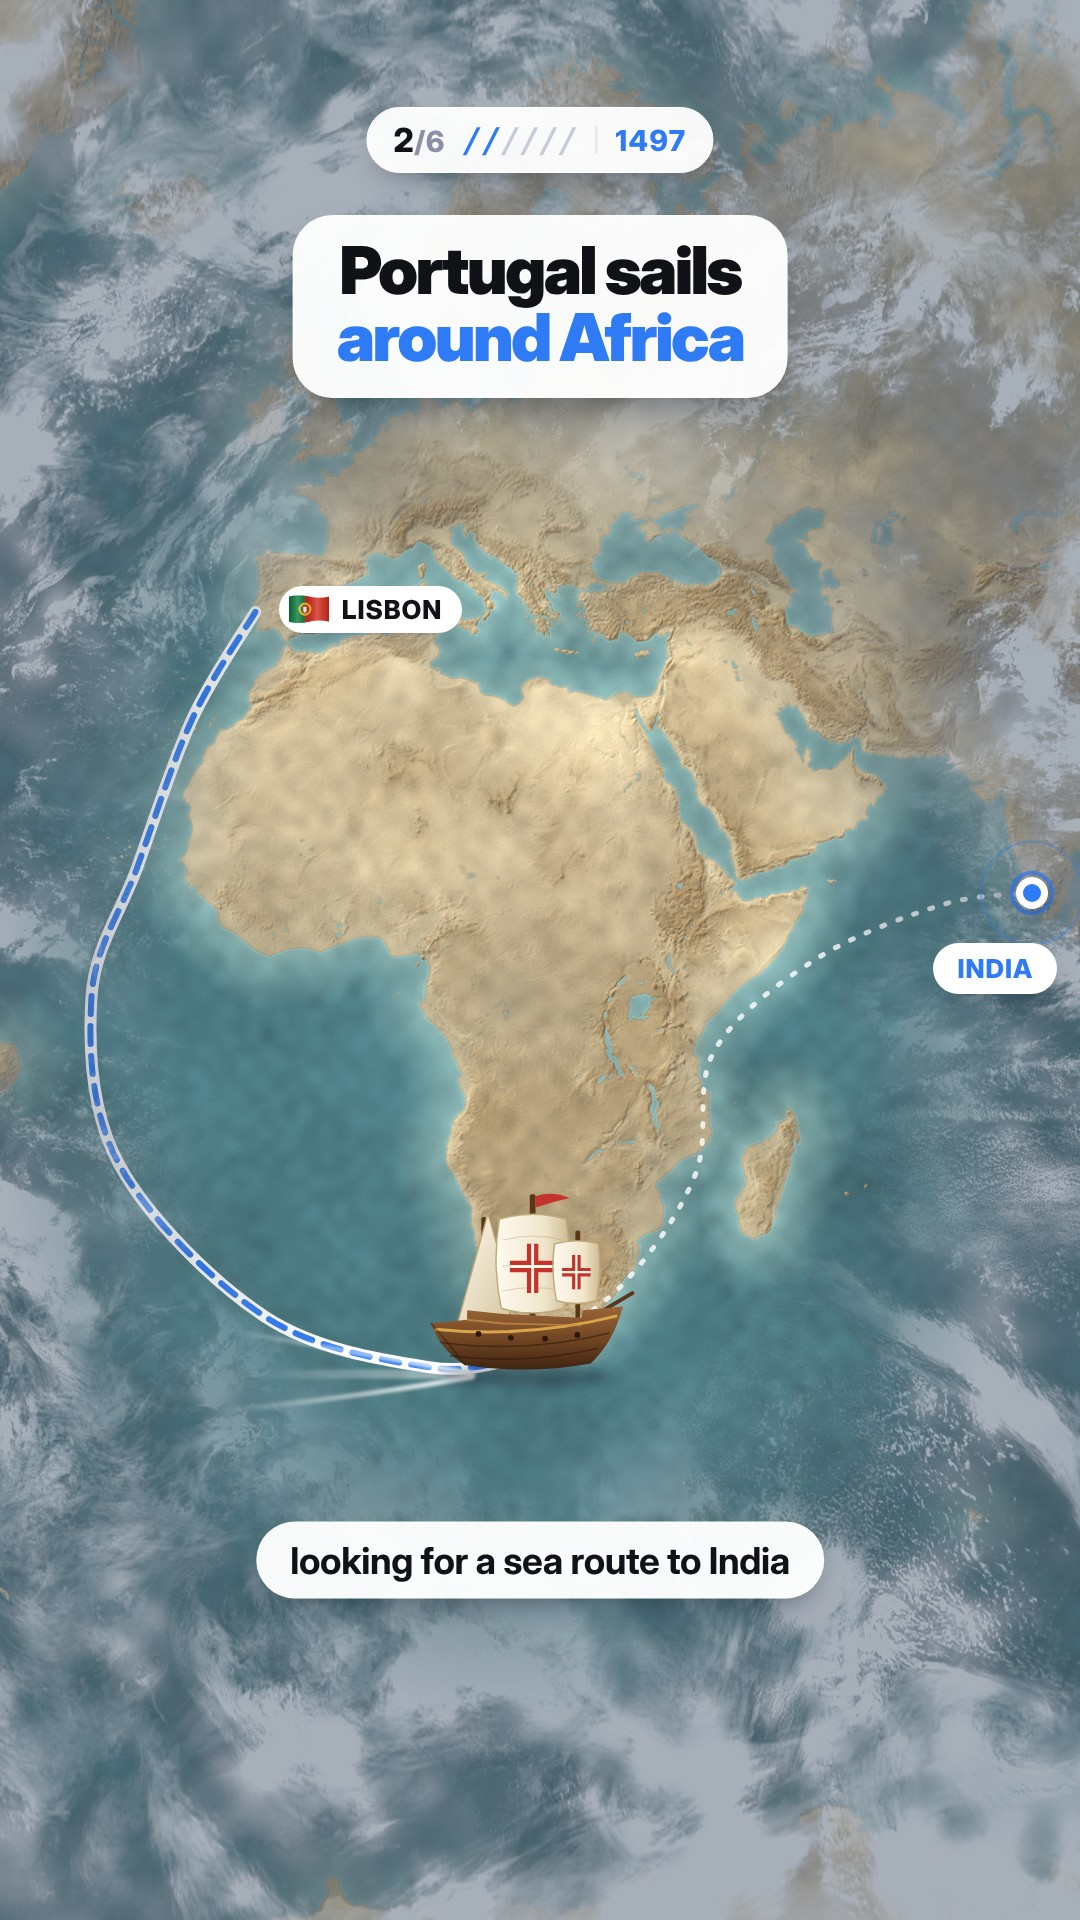
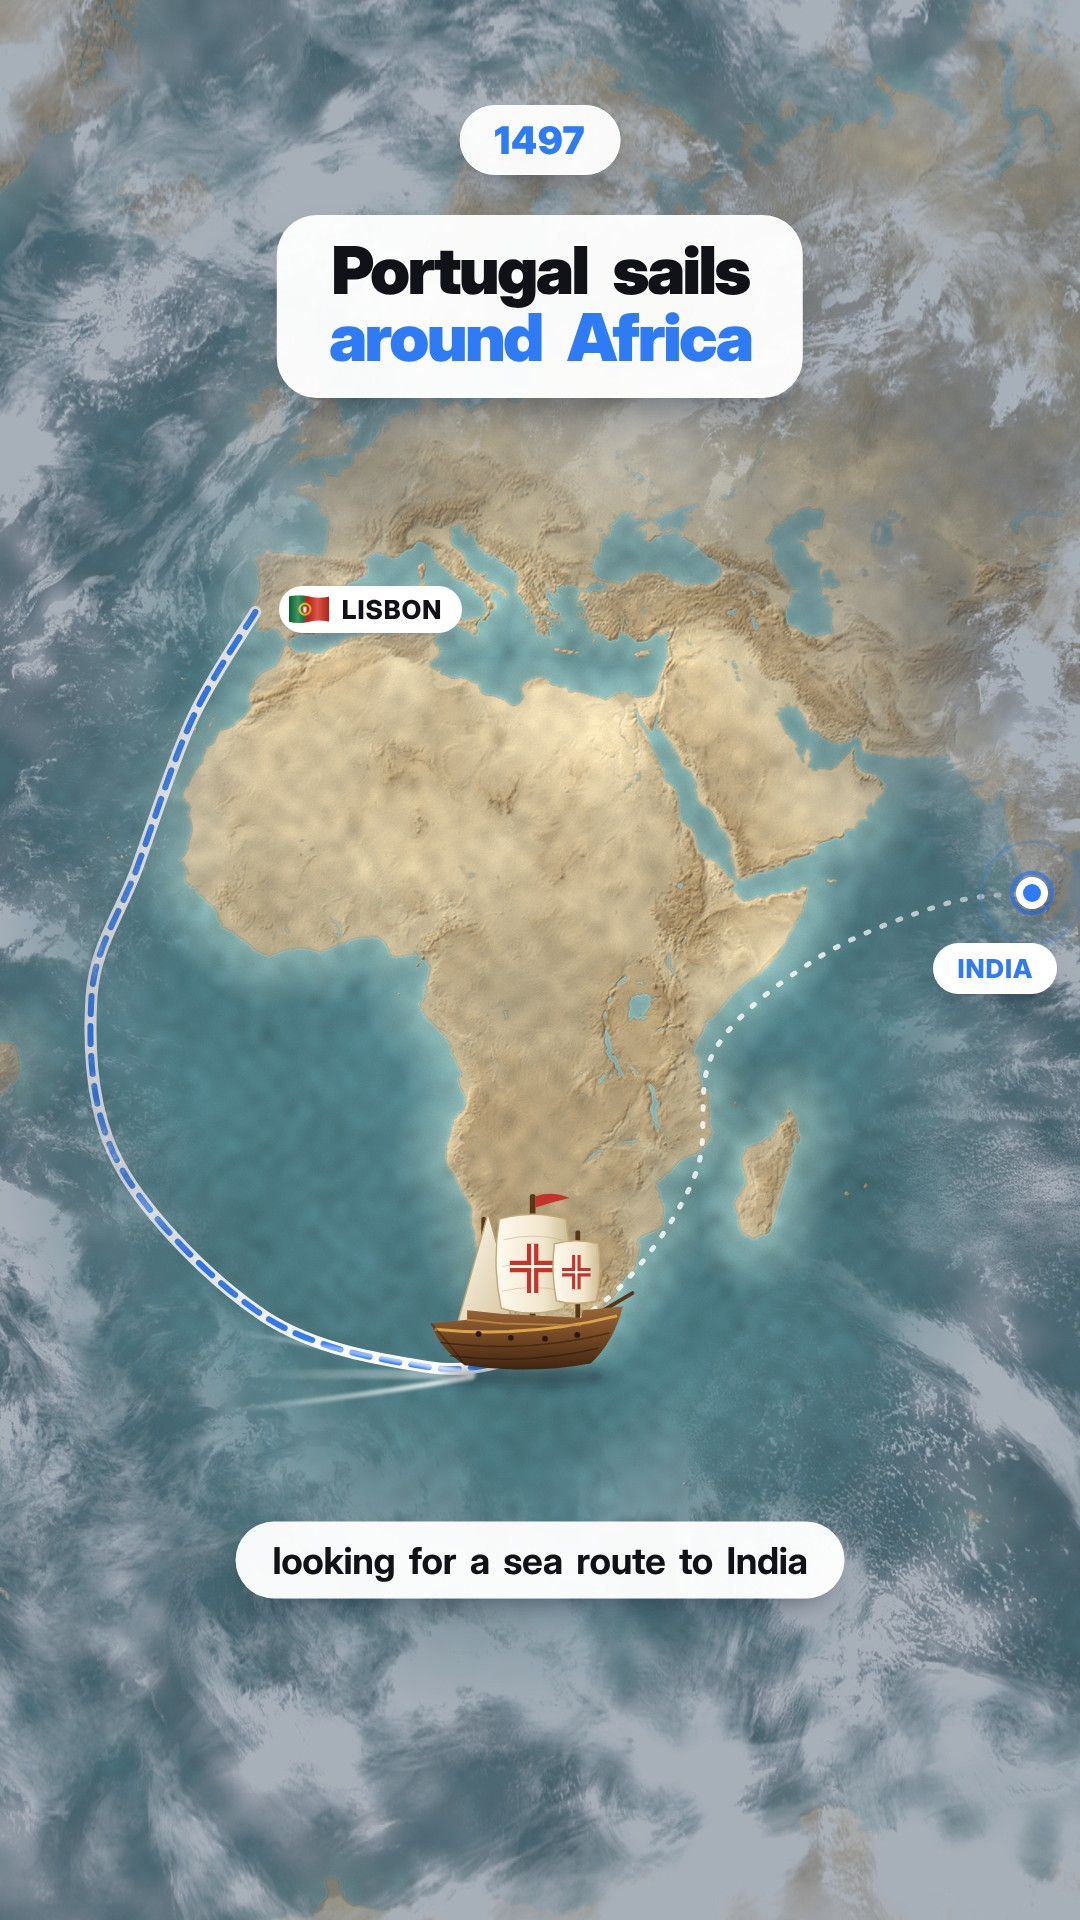
Map story: year-only pill and subtitle change storyboard
Claude-Session: https://claude.ai/code/session_01QM2gWBww91cH489KLK5YTv

diff --git a/projects/map-story/src/full.html b/projects/map-story/src/full.html
@@ -51,15 +51,20 @@ function smooth(pts){let d=`M${pts[0][0]},${pts[0][1]}`;for(let i=0;i<pts.length
 
 
 // ───────────── full-bleed map; all UI sits on top: progress pill (n/6 + slashes + era), phrase capsule, chips + subtitle raised
-function topUI(n,era,phrase){
-  const sl=[0,1,2,3,4,5].map(k=>`<span style="font-style:italic;color:${k<n?BLUE:'#c6cbdb'}">/</span>`).join('');
-  html(`<div class="pill" style="left:540px;top:140px;height:66px;padding:0 26px;gap:18px;font-weight:800;font-size:29px;letter-spacing:.02em">
-    <span><span style="font-size:33px">${n}</span><span style="color:#8a90a6">/6</span></span><span class="mono" style="font-size:34px;letter-spacing:-.04em;font-weight:700">${sl}</span>
-    <span style="width:2px;height:28px;background:#e1e4ec"></span><span style="color:${BLUE};letter-spacing:.05em">${era}</span></div>`);
-  html(`<div class="abs" style="left:540px;top:215px;transform:translateX(-50%);padding:22px 44px 26px;border-radius:40px;background:rgba(255,255,255,.96);box-shadow:0 22px 46px -22px rgba(10,20,40,.55);font-weight:900;font-size:66px;letter-spacing:-.04em;line-height:1.02;text-align:center;white-space:nowrap">${phrase}</div>`);
+function topUI(n,era,phrase,opt={}){
+  // year pill: the year only; on a change the old year rolls up and the new one rolls in
+  const yr=opt.from?`<span style="position:relative;display:inline-block;height:44px;overflow:hidden;vertical-align:middle"><span style="display:block;transform:translateY(${-44*opt.roll}px)"><span style="display:block;height:44px;line-height:44px;filter:blur(${opt.roll*6}px);opacity:${1-opt.roll}">${opt.from}</span><span style="display:block;height:44px;line-height:44px;filter:blur(${(1-opt.roll)*6}px);opacity:${opt.roll}">${era}</span></span></span>`:era;
+  html(`<div class="pill" style="left:540px;top:140px;height:70px;padding:0 34px;font-weight:900;font-size:38px;letter-spacing:.02em;color:${BLUE}">${yr}</div>`);
+  // phrase capsule: words come out of the blur one by one (opt.words = how many are in, fractional)
+  const ws=phrase.split(' ');const k=opt.words??ws.length;
+  const inner=ws.map((w,i)=>{if(w==='|')return '<br>';const p=Math.max(0,Math.min(1,k-i));return `<span style="display:inline-block;margin:0 .12em;opacity:${p};filter:blur(${(1-p)*10}px);transform:translateY(${(1-p)*14}px)">${w.replace(/_/g,' ')}</span>`}).join(' ');
+  if(opt.noPhrase)return;
+  html(`<div class="abs" style="left:540px;top:215px;transform:translateX(-50%);padding:22px 44px 26px;border-radius:40px;background:rgba(255,255,255,.96);box-shadow:0 22px 46px -22px rgba(10,20,40,.55);font-weight:900;font-size:66px;letter-spacing:-.04em;line-height:1.02;text-align:center;white-space:nowrap">${inner}</div>`);
 }
 const SUBY=1560,CHIPY=1440;
-function subp(t){return html(`<div class="sub" style="top:${SUBY}px">${t}</div>`)}
+function subp(t,o={}){const y=SUBY+(o.dy||0);const ws=t.split(' '),k=o.words??ws.length,cur=Math.floor(k);
+  // karaoke: spoken words dark, the word being said blue, the rest waits at 30 %
+  return html(`<div class="sub" style="top:${y}px">${ws.map((w,i)=>`<span style="display:inline-block;margin:0 .08em;${i<cur||!o.hl?'':i===cur?`color:${BLUE}`:'opacity:.3'}">${w}</span>`).join(' ')}</div>`)}
 function chipRow(items){return html(`<div class="abs" style="left:540px;top:${CHIPY}px;transform:translate(-50%,-50%);display:flex;gap:16px">${items.map(([t,st])=>`<span class="chip" style="font-size:29px;${st||''}">${t}</span>`).join('')}</div>`)}
 const ROUTE=[[-9.1,38.7],[-16,29],[-22,14],[-27,0],[-24,-18],[-8,-33],[10,-37.5],[20,-36.6],[31,-30],[39,-19],[41,-6],[52,4],[66,10],[75.8,11.25]];
 const ANGER=s=>`<svg width="${110*s}" height="${110*s}" viewBox="-45 -45 90 90">${[0,90,180,270].map(r=>`<path transform="rotate(${r})" d="M8 -30 Q8 -10 28 -8" stroke="#d62828" stroke-width="8" fill="none" stroke-linecap="round"/>`).join('')}</svg>`;
@@ -70,7 +75,7 @@ if(V==='F1'){
   html(`<svg class="abs" style="left:0;top:0" width="1080" height="1920"><defs><filter id="gl" x="-20%" y="-20%" width="140%" height="140%"><feGaussianBlur stdDeviation="14"/></filter></defs>
    <path d="${path(byId('076'))}" fill="none" stroke="#7fb2ff" stroke-width="18" opacity=".55" filter="url(#gl)"/><path d="${path(byId('076'))}" fill="${BLUE}" fill-opacity=".34" stroke="#fff" stroke-width="4"/></svg>`);
   const c=pr([-51,-10]);at(c[0]-80,c[1]-80,ICON.pulse(BLUE,.35));
-  topUI(1,'TODAY',`Why does <span class="blue">Brazil</span><br>speak Portuguese?`);
+  topUI(1,'TODAY','Why does <span_class="blue">Brazil</span> | speak Portuguese?');
   chipRow([['#1 IN SOUTH AMERICA',`background:${BLUE};color:#fff`],['#5 IN THE WORLD',`color:${BLUE}`]]);
   subp('the biggest country in South America');
 }
@@ -83,7 +88,7 @@ if(V==='F2'){
   const sp=route[k];at(sp[0]-300,sp[1]-34,ICON.wake(250));at(sp[0]-110,sp[1]-176,ICON.caravel(.95));
   const L=route[0];html(`<div class="chip" style="position:absolute;left:${L[0]+24}px;top:${L[1]-26}px;font-size:26px;padding:8px 20px 8px 10px">${ICON.flagPT(.42)} LISBON</div>`);
   const T=route[route.length-1];at(T[0]-80,T[1]-80,ICON.pulse(BLUE,.6));html(`<div class="chip" style="position:absolute;left:${T[0]}px;top:${T[1]+50}px;transform:translateX(-80%);font-size:26px;color:${BLUE}">INDIA</div>`);
-  topUI(2,'1497',`Portugal sails<br><span class="blue">around Africa</span>`);
+  topUI(2,'1497','Portugal sails | <span_class="blue">around</span> <span_class="blue">Africa</span>');
   subp('looking for a sea route to India');
 }
 if(V==='F3'){
@@ -98,7 +103,7 @@ if(V==='F3'){
   at(X-330,900,CAST2.isabella(.85));at(X-200,930,CAST2.ferdinand(.85));
   at(X-110,1060,CAST2.pope(.9));
   at(X+120,900,CAST2.joao(.88));
-  topUI(3,'1493',`The Pope splits<br>the world <span class="blue">in two</span>`);
+  topUI(3,'1493','The Pope splits | the world <span_class="blue">in_two</span>');
   chipRow([[`${ICON.flagES(.42)} SPAIN · WEST`,'padding:8px 22px 8px 10px'],[`${ICON.flagPT(.42)} PORTUGAL · EAST`,'padding:8px 22px 8px 10px']]);
   subp('everything west for Spain, east for Portugal');
 }
@@ -113,7 +118,7 @@ if(V==='F4'){
    <path d="M${LX1} 0 V315" stroke="#c4342d" stroke-width="6" stroke-dasharray="16 9"/><path d="M${LX0-6} 160 H${LX1+14}" stroke="#c4342d" stroke-width="5" stroke-linecap="round"/><path d="M${LX1+26} 148 L${LX1+12} 160 L${LX1+26} 172" stroke="#c4342d" stroke-width="5" fill="none" stroke-linecap="round" stroke-linejoin="round"/></svg>`);
   at(560,960,CAST2.ferdinand(1.05));at(735,1000,CAST2.isabella(1.0));
   at(120,980,CAST2.joao(1.1));at(120+225,950,ANGER(1));
-  topUI(4,'1494',`Portugal wants<br>a <span class="blue">better deal</span>`);
+  topUI(4,'1494','Portugal wants | a <span_class="blue">better_deal</span>');
   chipRow([['370 LEAGUES WEST',`color:${BLUE}`],['TREATY OF TORDESILLAS','']]);
   subp('and demands to move the line');
 }
@@ -125,8 +130,20 @@ if(V==='F5'){
   const b=pr([-50,-12]),a=pr([-66,-33]);
   html(`<div class="chip" style="position:absolute;left:${b[0]}px;top:${b[1]}px;transform:translate(-50%,-50%);font-size:34px;background:${BLUE};color:#fff">PORTUGUESE</div>`);
   html(`<div class="chip" style="position:absolute;left:${a[0]}px;top:${a[1]}px;transform:translate(-50%,-50%);font-size:34px;background:${ORANGE};color:#fff">SPANISH</div>`);
-  topUI(6,'TODAY',`One line —<br><span class="blue">two languages</span>`);
+  topUI(6,'TODAY','One line — | <span_class="blue">two_languages</span>');
   subp('that’s why Brazil speaks Portuguese');
+}
+
+if(V.startsWith('SB')){const st=+V.slice(2);
+  at(0,0,'<img class="plate" src="plates/iberia_hist.png">');
+  const pr=proj('iberia'),path=d3.geoPath(pr);
+  html(`<svg class="abs" style="left:0;top:0" width="1080" height="1920"><g style="mix-blend-mode:multiply"><path d="${path(byId('724'))}" fill="#e3822b" opacity=".85"/><path d="${path(byId('620'))}" fill="#2f4fd1" opacity=".95"/></g></svg>`);
+  at(560,960,CAST2.ferdinand(1.05));at(735,1000,CAST2.isabella(1.0));at(120,980,CAST2.joao(1.1));
+  const A='The Pope splits | the world <span_class="blue">in_two</span>',B='Portugal wants | a <span_class="blue">better_deal</span>';
+  if(st===1){topUI(0,'1493',A);subp('everything west for Spain,',{words:3.4,hl:1});}
+  if(st===2){topUI(0,'1493',A);subp('east for Portugal',{words:3});}
+  if(st===3){topUI(0,'1494',B,{from:'1493',roll:.5,words:1.5});subp('Portugal wasn’t happy',{words:2.3,hl:1});}
+  if(st===4){topUI(0,'1494',B,{words:9});subp('and demands to move the line',{words:4.5,hl:1});}
 }
 document.fonts.load('700 30px "Cormorant Garamond"').then(()=>Promise.all([...document.images].map(i=>i.decode()))).then(()=>{window.ready=true});
 </script>
